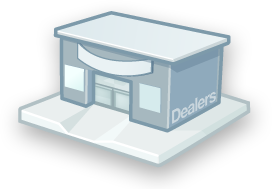
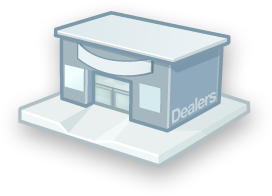
fixed bad layers in animation

diff --git a/public/stylesheets/animation.css b/public/stylesheets/animation.css
@@ -13,14 +13,14 @@
 	background:url('../images/animation/manufacturer.png');
 	top:24px;
 	left:10px;
-	height:214px;
-	width:229px;
+	height:218px;
+	width:232px;
 }
 
 #store{
 	background:url('../images/animation/store.png');
 	width:272px;
-	height:182px;
+	height:189px;
 	top:44px;
 	left:340px;
 }
